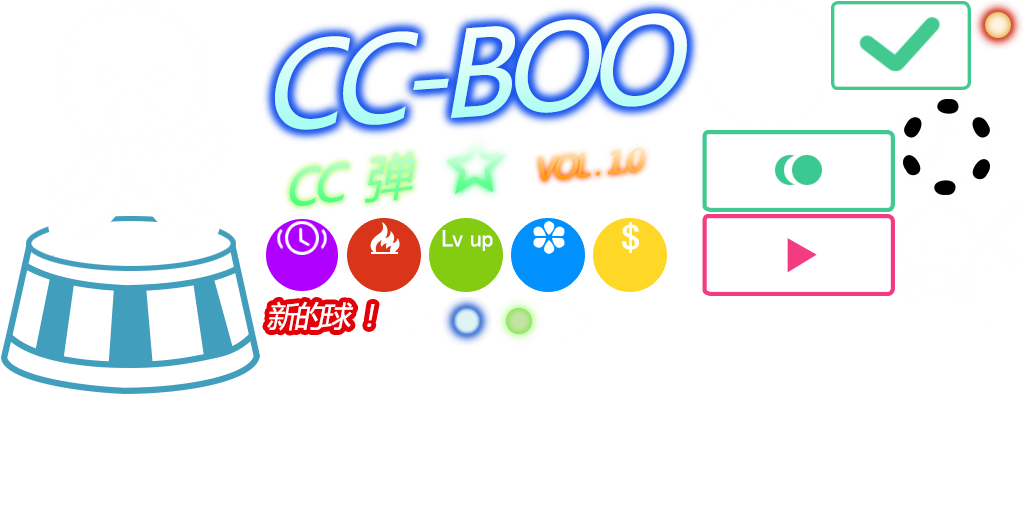
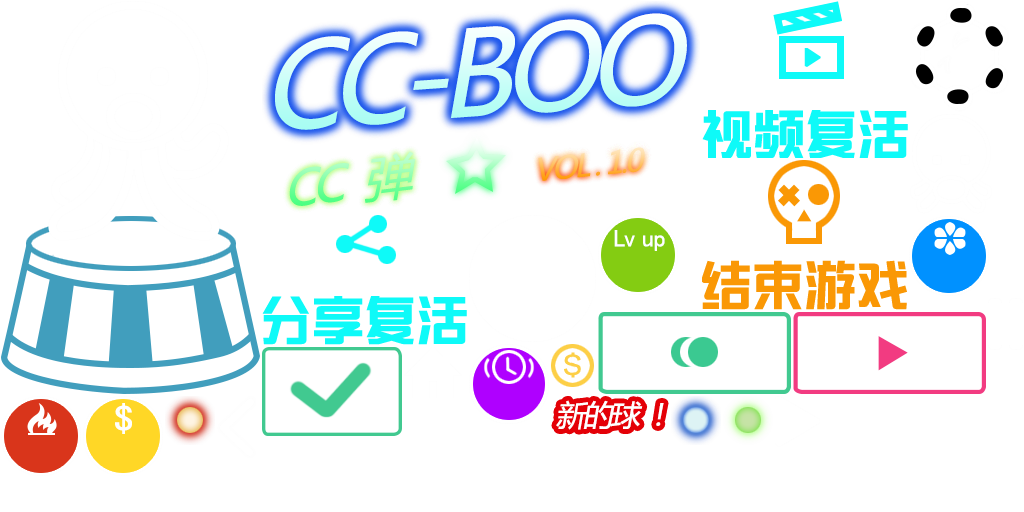
合入一波资源

diff --git a/BallProject/src/GameView/HUD/GameOverItem.ts b/BallProject/src/GameView/HUD/GameOverItem.ts
@@ -62,13 +62,13 @@ class GameOverItem extends egret.DisplayObjectContainer
         title.y = -160; 
         this.reviveMenu.addChild(title);
 
-        var reviveButton = new ShapeBgButton(ShapeBgType.RoundRect, 0x00FFFF00, 6, 16, "pd_res_json.xingxing1", 570, 140, 
-            100, 100, this.OnClickRevive, this);
+        var reviveButton = new ShapeBgButton(ShapeBgType.RoundRect, 0x00FFFF00, 6, 16, "pd_res_json.ShareRevive", 570, 140, 
+            137, 100, this.OnClickRevive, this);
         reviveButton.y = -20;
         this.reviveMenu.addChild(reviveButton);
 
-        var giveUpButton = new ShapeBgButton(ShapeBgType.RoundRect, 0xFF930000, 6, 16, "pd_res_json.xingxing1", 570, 140, 
-            100, 100, this.OnClickGiveup, this);
+        var giveUpButton = new ShapeBgButton(ShapeBgType.RoundRect, 0xFF930000, 6, 16, "pd_res_json.GameOver", 570, 140, 
+            137, 100, this.OnClickGiveup, this);
         giveUpButton.y = 140;
         this.reviveMenu.addChild(giveUpButton);
     }
@@ -124,7 +124,7 @@ class GameOverItem extends egret.DisplayObjectContainer
     private CreateCoin()
     {
         this.coin = new egret.DisplayObjectContainer();
-        var coinIcon = (<IResModule>GameMain.GetInstance().GetModule(ModuleType.RES)).CreateBitmapByName("pd_res_json.FeverTime_xingxing");
+        var coinIcon = (<IResModule>GameMain.GetInstance().GetModule(ModuleType.RES)).CreateBitmapByName("pd_res_json.Coin");
         coinIcon.width = 40;
         coinIcon.height = 40;
         this.coin.addChild(coinIcon);
@@ -198,7 +198,7 @@ class GameOverItem extends egret.DisplayObjectContainer
 
     private CreateGotoLobby()
     {
-        this.gotoLobby = new ShapeBgButton(ShapeBgType.RoundRect, 0xEF0048FF, 0, 16, "pd_res_json.xingxing1", 560, 130, 100, 100,
+        this.gotoLobby = new ShapeBgButton(ShapeBgType.RoundRect, 0xEF0048FF, 0, 16, "pd_res_json.Home", 560, 130, 70, 62,
             this.OnClickBackToLobby, this);
 
         this.gotoLobby.x = GameMain.GetInstance().GetStageWidth() / 2;

diff --git a/BallProject/src/GameView/LobbyView.ts b/BallProject/src/GameView/LobbyView.ts
@@ -43,7 +43,7 @@ class LobbyView extends GameView
         shape.graphics.endFill();
         //this.addChild(shape);
 
-        var button = new ShapeBgButton(ShapeBgType.RoundRect, 0xAB0A0B00, 6, 25, "pd_res_json.Boom2", 250, 120, 50, 50,
+        var button = new ShapeBgButton(ShapeBgType.RoundRect, 0xAB0A0B00, 6, 25, "pd_res_json.play", 250, 120, 50, 50,
             this.OnClickStartGame, this);
         button.x = this.mStageWidth / 2;
         button.y = this.mStageHeight / 5 * 3.05;
@@ -54,22 +54,11 @@ class LobbyView extends GameView
         //注册事件
         shape.addEventListener(egret.TouchEvent.TOUCH_TAP, this.OnClickStartGame, this);
 
-        var text: egret.TextField = new egret.TextField();
-        text.text = "start game";
-        text.x = 0;
-        text.y = this.mStageHeight / 5 * 3;
-        text.textAlign = egret.HorizontalAlign.CENTER;
-        text.verticalAlign = egret.VerticalAlign.MIDDLE;
-        text.width = this.mStageWidth;
-        text.height = 100;
-        this.addChild(text);
-        
-
         // this.PlayParticle();
         // this.PlayParticleAnim();
         // this.AddMovePartical();
 
-        this.PlayLightningAnim(text);
+        this.PlayLightningAnim(shape);
         // this.PlayMoving(text);
         // this.PlayDynamicMoving();
 

diff --git a/BallProject/src/GameView/HUD/PauseItem.ts b/BallProject/src/GameView/HUD/PauseItem.ts
@@ -77,7 +77,7 @@ class PauseItem extends egret.DisplayObjectContainer
         this.pauseTitle.addChild(textField);
 
         //回到大厅
-        var gotoLobby = new ShapeBgButton(ShapeBgType.RoundRect, 0x3F3F3FFF, 0, 16, "pd_res_json.xingxing1", 560, 130, 100, 100, 
+        var gotoLobby = new ShapeBgButton(ShapeBgType.RoundRect, 0x3F3F3FFF, 0, 16, "pd_res_json.Home", 560, 130, 70, 62, 
             this.OnClickBackToLobby, this);
         this.gotoLobbyButton = new egret.DisplayObjectContainer();
         this.gotoLobbyButton.x = GameMain.GetInstance().GetStageWidth() / 2;
@@ -85,7 +85,7 @@ class PauseItem extends egret.DisplayObjectContainer
         this.gotoLobbyButton.addChild(gotoLobby);
 
          //继续游戏
-        var con = new ShapeBgButton(ShapeBgType.RoundRect, 0x3F3F3FFF, 0, 16, "pd_res_json.xingxing1", 560, 130, 100, 100, 
+        var con = new ShapeBgButton(ShapeBgType.RoundRect, 0x3F3F3FFF, 0, 16, "pd_res_json.play", 560, 130, 56, 56, 
             this.OnClickContinue, this);
         this.continueButton = new egret.DisplayObjectContainer();
         this.continueButton.x = GameMain.GetInstance().GetStageWidth() / 2;

diff --git a/BallProject/src/GameView/BallMatchView.ts b/BallProject/src/GameView/BallMatchView.ts
@@ -25,12 +25,12 @@ class BallMatchView extends GameView
     {
         var res = <IResModule>GameMain.GetInstance().GetModule(ModuleType.RES);
 
-        this.ballEmitterSprite = res.CreateBitmapByName("pd_res_json.Virus_Blue_Idle1");
+        this.ballEmitterSprite = res.CreateBitmapByName("pd_res_json.zhangyue");
         this.ballEmitterSprite.x = GameMain.GetInstance().GetStageWidth() / 2;
         this.ballEmitterSprite.y = GameMain.GetInstance().GetStageHeight() / 2;
         this.ballEmitterSprite.anchorOffsetX = this.ballEmitterSprite.width / 2;
         this.ballEmitterSprite.anchorOffsetY = this.ballEmitterSprite.height / 2;
-        this.battleGround.addChild(this.ballEmitterSprite);
+        this.addChild(this.ballEmitterSprite);
 
         this.ballEmitterSprite.touchEnabled = true;
         this.ballEmitterSprite.addEventListener(egret.TouchEvent.TOUCH_TAP, this.GameOver, this);
